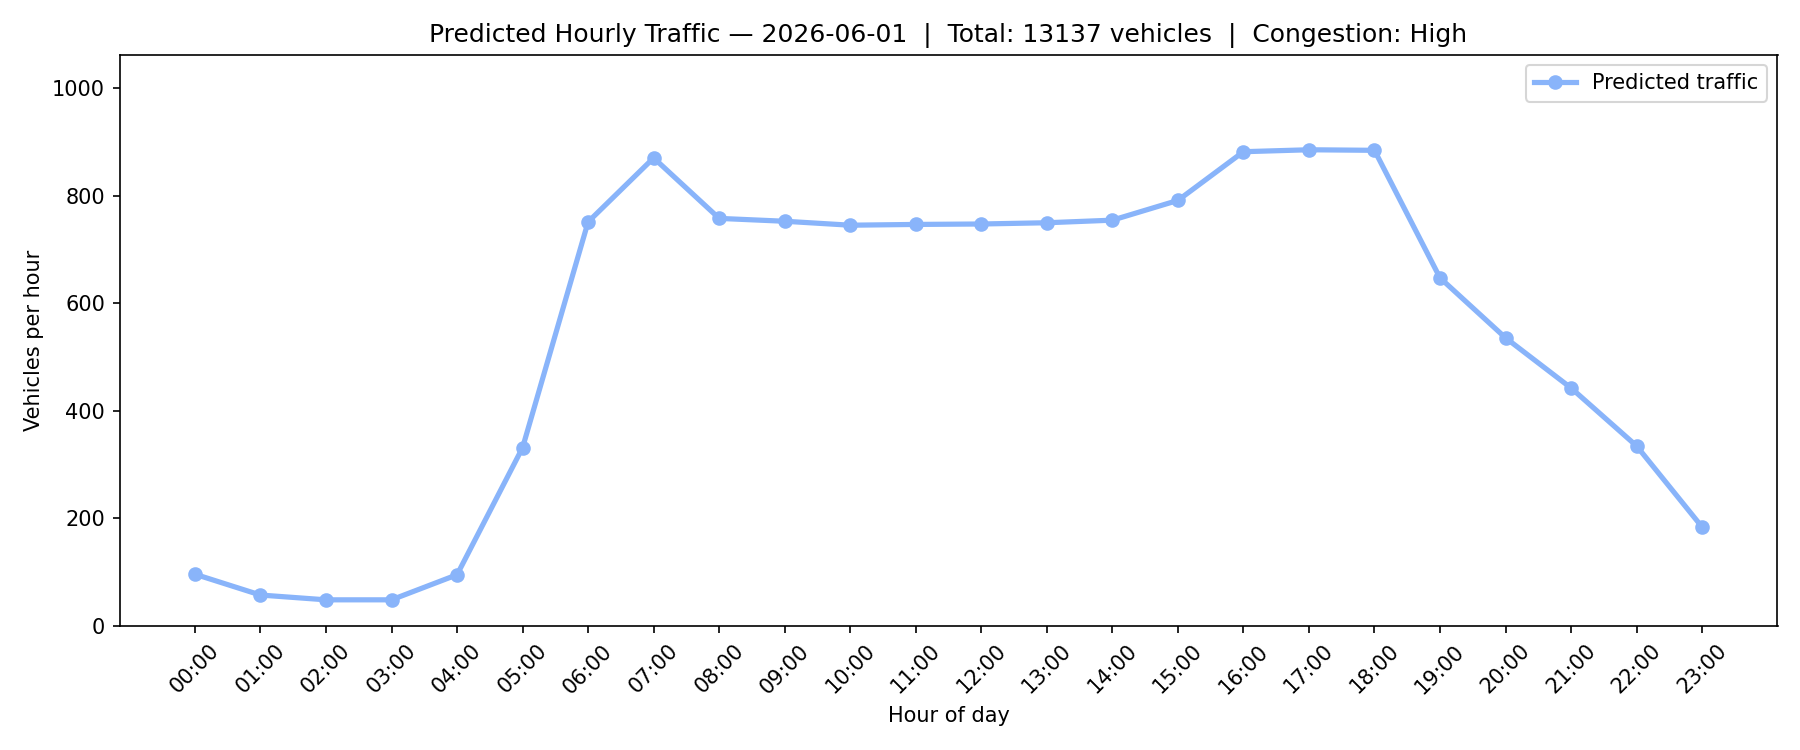
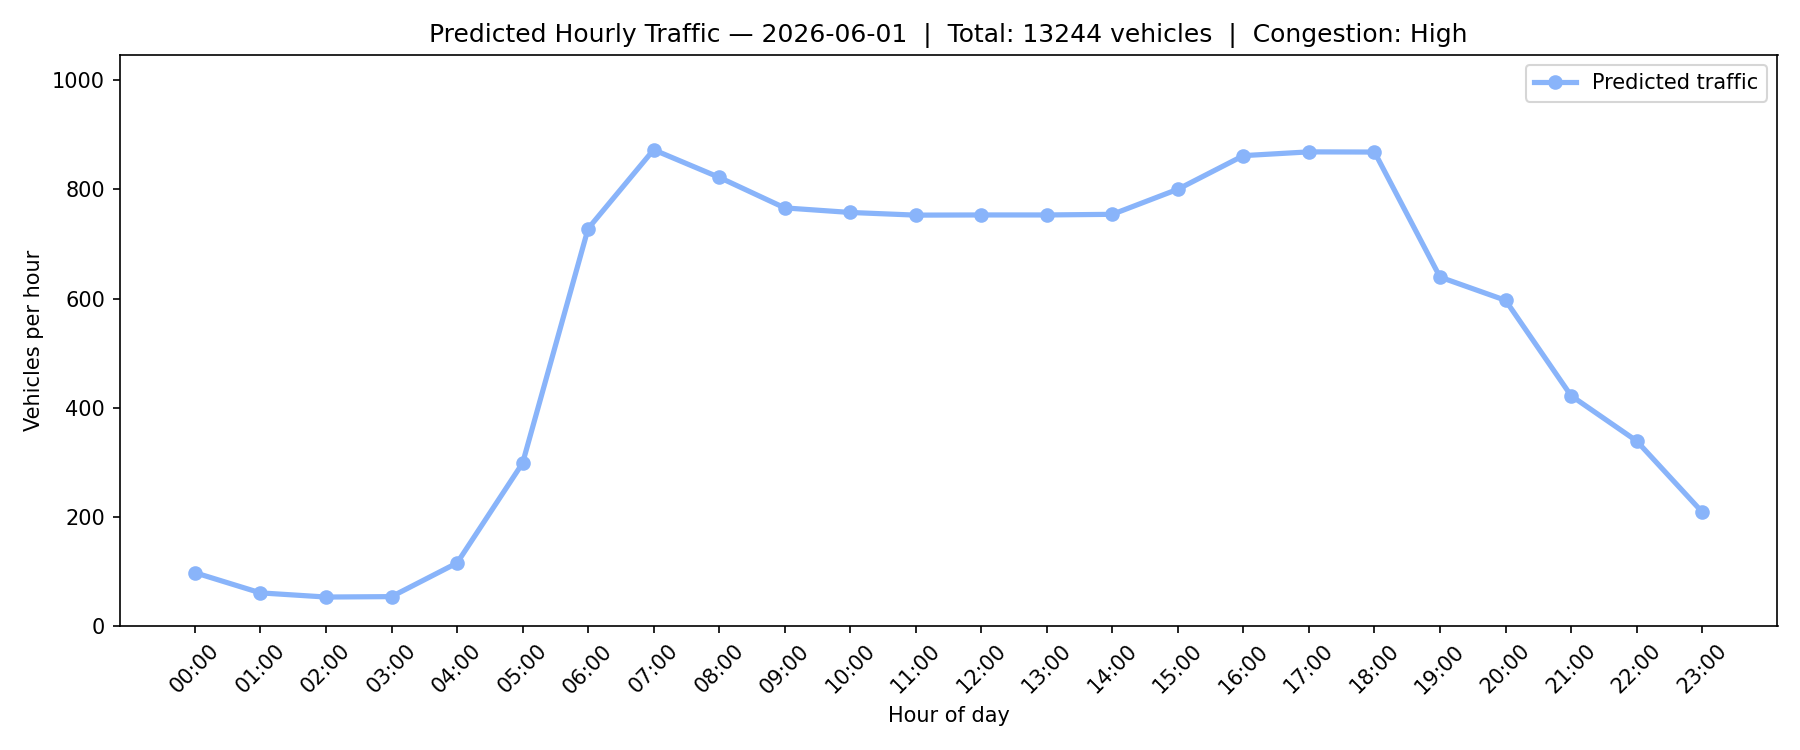
kjhb

diff --git a/angus/tfnsw_api/main.py b/angus/tfnsw_api/main.py
@@ -25,7 +25,7 @@ hourly = hourly.sort_values(["date", "hour"]).reset_index(drop=True)
 scg      = pd.read_csv("../../scg_events_2013_2019_clean.csv")
 hordern  = pd.read_csv("../../hordern_events_2013_2019_clean.csv")
 randwick = pd.read_csv("../../ben/royal_randwick_events_2013_2019_clean_with_estimated_attendance.csv")
-allianz  = pd.read_csv("../../allianz_sfs_events_2013_2019_clean.csv")
+allianz  = pd.read_csv("../../allianz_sydney_football_stadium_events_clean.csv")
 
 # Rename and fill attendance with venue capacity estimates
 scg     = scg.rename(columns={"attendance": "estimated_attendance"})
@@ -37,17 +37,23 @@ randwick["estimated_attendance"] = randwick["estimated_attendance"].fillna(20000
 allianz["estimated_attendance"]  = allianz["estimated_attendance"].fillna(40000)
 
 # Get event hours
-scg["event_hour"]      = pd.to_numeric(scg["start_hour"],    errors="coerce").fillna(18).astype(int)
-hordern["event_hour"]  = pd.to_numeric(hordern["hour"],      errors="coerce").fillna(18).astype(int)
-randwick["event_hour"] = pd.to_numeric(randwick["hour"],     errors="coerce").fillna(18).astype(int)
-allianz["event_hour"]  = pd.to_numeric(allianz["start_hour"],errors="coerce").fillna(18).astype(int)
+scg["event_hour"]      = pd.to_numeric(scg["start_hour"],     errors="coerce").fillna(18).astype(int)
+hordern["event_hour"]  = pd.to_numeric(hordern["hour"],       errors="coerce").fillna(18).astype(int)
+randwick["event_hour"] = pd.to_numeric(randwick["hour"],      errors="coerce").fillna(18).astype(int)
+allianz["event_hour"]  = pd.to_numeric(allianz["start_hour"], errors="coerce").fillna(18).astype(int)
+
+# Add venue type
+scg["venue_type"]      = 2
+hordern["venue_type"]  = 0
+randwick["venue_type"] = 1
+allianz["venue_type"]  = 2
 
 # ── Combine all events ────────────────────────────────────────
 events = pd.concat([
-    scg[["date", "estimated_attendance", "event_hour"]],
-    hordern[["date", "estimated_attendance", "event_hour"]],
-    randwick[["date", "estimated_attendance", "event_hour"]],
-    allianz[["date", "estimated_attendance", "event_hour"]]
+    scg[["date", "estimated_attendance", "event_hour", "venue_type"]],
+    hordern[["date", "estimated_attendance", "event_hour", "venue_type"]],
+    randwick[["date", "estimated_attendance", "event_hour", "venue_type"]],
+    allianz[["date", "estimated_attendance", "event_hour", "venue_type"]]
 ], ignore_index=True)
 events["date"] = pd.to_datetime(events["date"]).dt.normalize()
 
@@ -62,13 +68,15 @@ for _, row in events.iterrows():
             "hour":             h,
             "has_event":        1,
             "max_attendance":   row["estimated_attendance"],
-            "total_attendance": row["estimated_attendance"]
+            "total_attendance": row["estimated_attendance"],
+            "venue_type":       row["venue_type"]
         })
 
 event_hours_df = pd.DataFrame(event_hours).groupby(["date", "hour"]).agg(
     has_event        = ("has_event", "max"),
     max_attendance   = ("max_attendance", "max"),
-    total_attendance = ("total_attendance", "sum")
+    total_attendance = ("total_attendance", "sum"),
+    venue_type       = ("venue_type", "max")
 ).reset_index()
 
 # ── Merge ─────────────────────────────────────────────────────
@@ -76,6 +84,7 @@ hourly = hourly.merge(event_hours_df, on=["date", "hour"], how="left")
 hourly["has_event"]        = hourly["has_event"].fillna(0)
 hourly["max_attendance"]   = hourly["max_attendance"].fillna(0)
 hourly["total_attendance"] = hourly["total_attendance"].fillna(0)
+hourly["venue_type"]       = hourly["venue_type"].fillna(-1)
 
 # ── Feature engineering ───────────────────────────────────────
 hourly["day_of_year"]    = hourly["date"].dt.dayofyear
@@ -86,7 +95,7 @@ hourly["school_holiday"] = hourly["school_holiday"].astype(int)
 FEATURES = [
     "hour", "month", "day_of_week", "day_of_year",
     "is_weekend", "public_holiday", "school_holiday",
-    "has_event", "max_attendance", "total_attendance"
+    "has_event", "max_attendance", "total_attendance", "venue_type"
 ]
 TARGET = "vehicle_count"
 
@@ -94,12 +103,22 @@ TARGET = "vehicle_count"
 train = hourly[(hourly["year"] >= 2013) & (hourly["year"] <= 2018)]
 test  = hourly[hourly["year"] == 2019]
 
-X_train, y_train = train[FEATURES], train[TARGET]
+# Undersample non-event hours
+event_train     = train[train["has_event"] == 1]
+non_event_train = train[train["has_event"] == 0].sample(
+    n=len(event_train) * 10,
+    random_state=42
+)
+train_balanced = pd.concat([event_train, non_event_train]).sample(frac=1, random_state=42)
+
+X_train, y_train = train_balanced[FEATURES], train_balanced[TARGET]
 X_test,  y_test  = test[FEATURES],  test[TARGET]
 
-print(f"\nTraining rows      : {len(X_train):,}")
-print(f"Test rows          : {len(X_test):,}")
-print(f"Event hours in test: {test['has_event'].sum():.0f}")
+print(f"\nEvent hours in training    : {len(event_train):,}")
+print(f"Non-event hours in training: {len(non_event_train):,}")
+print(f"\nTraining rows (balanced) : {len(X_train):,}")
+print(f"Test rows                : {len(X_test):,}")
+print(f"Event hours in test      : {test['has_event'].sum():.0f}")
 
 # ── Train model ───────────────────────────────────────────────
 model = RandomForestRegressor(
@@ -135,8 +154,17 @@ plt.close()
 
 print("\n✓ Model plots saved.")
 
+# ── Attendance multiplier ─────────────────────────────────────
+def apply_event_multiplier(base_pred, max_attendance):
+    if max_attendance <= 0:
+        return base_pred
+    excess     = max(0, max_attendance - 5500)
+    multiplier = 1 + (excess / 10000) * 0.05
+    return base_pred * multiplier
+
 # ── Core prediction functions ─────────────────────────────────
-def predict_hour(date_str, hour, has_event=0, max_attendance=0, total_attendance=0):
+def predict_hour(date_str, hour, has_event=0, max_attendance=0,
+                 total_attendance=0, venue_type=-1):
     date = pd.Timestamp(date_str)
     input_data = pd.DataFrame([{
         "hour":             hour,
@@ -148,16 +176,22 @@ def predict_hour(date_str, hour, has_event=0, max_attendance=0, total_attendance
         "school_holiday":   0,
         "has_event":        has_event,
         "max_attendance":   max_attendance,
-        "total_attendance": total_attendance
+        "total_attendance": total_attendance,
+        "venue_type":       venue_type
     }])
-    return model.predict(input_data)[0]
+    base = model.predict(input_data)[0]
+    if has_event:
+        return apply_event_multiplier(base, max_attendance)
+    return base
 
 def predict_day_summary(date_str, has_event=0, max_attendance=0,
-                         total_attendance=0, event_hour=18, event_duration=4):
+                         total_attendance=0, event_hour=18,
+                         event_duration=4, venue_type=-1):
     hourly_preds = []
     for h in range(24):
         h_event = has_event if (has_event and event_hour <= h < event_hour + event_duration) else 0
-        hourly_preds.append(predict_hour(date_str, h, h_event, max_attendance, total_attendance))
+        vt      = venue_type if h_event else -1
+        hourly_preds.append(predict_hour(date_str, h, h_event, max_attendance, total_attendance, vt))
     total      = sum(hourly_preds)
     peak_hour  = hourly_preds.index(max(hourly_preds))
     peak_count = max(hourly_preds)
@@ -172,7 +206,8 @@ def predict_day_summary(date_str, has_event=0, max_attendance=0,
     return total, hourly_preds
 
 def predict_day_hourly(date_str, has_event=0, max_attendance=0,
-                        total_attendance=0, event_hour=18, event_duration=4):
+                        total_attendance=0, event_hour=18,
+                        event_duration=4, venue_type=-1):
     print(f"\n{'='*50}")
     print(f"HOURLY BREAKDOWN: {date_str}")
     print(f"{'='*50}")
@@ -181,7 +216,8 @@ def predict_day_hourly(date_str, has_event=0, max_attendance=0,
     hourly_preds = []
     for h in range(24):
         h_event = has_event if (has_event and event_hour <= h < event_hour + event_duration) else 0
-        pred    = predict_hour(date_str, h, h_event, max_attendance, total_attendance)
+        vt      = venue_type if h_event else -1
+        pred    = predict_hour(date_str, h, h_event, max_attendance, total_attendance, vt)
         level   = "Low" if pred < 300 else "Moderate" if pred < 600 else "High" if pred < 900 else "Severe"
         marker  = " ◀ EVENT" if h_event else ""
         print(f"{h:02d}:00   {pred:>10.0f} {level:>12}{marker}")
@@ -190,12 +226,13 @@ def predict_day_hourly(date_str, has_event=0, max_attendance=0,
 
 def plot_future_day(date_str, has_event=0, max_attendance=0,
                     total_attendance=0, event_hour=18, event_duration=4,
-                    event_name="Event"):
+                    venue_type=-1, event_name="Event"):
     hours = list(range(24))
     predictions = []
     for h in hours:
         h_event = has_event if (has_event and event_hour <= h < event_hour + event_duration) else 0
-        predictions.append(predict_hour(date_str, h, h_event, max_attendance, total_attendance))
+        vt      = venue_type if h_event else -1
+        predictions.append(predict_hour(date_str, h, h_event, max_attendance, total_attendance, vt))
 
     total      = sum(predictions)
     congestion = "Low" if total < 10000 else "Moderate" if total < 13000 else "High" if total < 15000 else "Severe"
@@ -238,6 +275,8 @@ def predict_with_auto_events(date_str):
         total_attendance = max_attendance
         event_hour       = int(events_that_day["event_hour"].iloc[0])
         event_name       = events_that_day["summary"].iloc[0]
+        venue            = events_that_day["venue"].iloc[0] if "venue" in events_that_day.columns else "scg"
+        venue_type       = 2 if "scg" in str(venue).lower() or "allianz" in str(venue).lower() else 1 if "randwick" in str(venue).lower() else 0
         print(f"\nEvents on {date_str}:")
         for _, e in events_that_day.iterrows():
             print(f"  - {e['summary']} (starts {int(e['event_hour']):02d}:00)")
@@ -247,12 +286,15 @@ def predict_with_auto_events(date_str):
         total_attendance = 0
         event_hour       = 18
         event_name       = ""
+        venue_type       = -1
         print(f"\nNo events on {date_str}")
 
-    predict_day_summary(date_str, has_event, max_attendance, total_attendance, event_hour)
-    predict_day_hourly(date_str, has_event, max_attendance, total_attendance, event_hour)
-    plot_future_day(date_str, has_event, max_attendance, total_attendance, event_hour,
-                    event_name=event_name)
+    predict_day_summary(date_str, has_event, max_attendance, total_attendance,
+                        event_hour, venue_type=venue_type)
+    predict_day_hourly(date_str, has_event, max_attendance, total_attendance,
+                       event_hour, venue_type=venue_type)
+    plot_future_day(date_str, has_event, max_attendance, total_attendance,
+                    event_hour, venue_type=venue_type, event_name=event_name)
 
 # ── Run predictions ───────────────────────────────────────────
 print("\n=== 2026 PREDICTIONS (AUTO) ===")
@@ -261,14 +303,24 @@ predict_with_auto_events("2026-06-01")   # no event
 
 print("\n=== 2027 PREDICTION (MANUAL with event) ===")
 predict_day_summary("2027-09-13", has_event=1, max_attendance=35000,
-                     total_attendance=35000, event_hour=19, event_duration=4)
+                     total_attendance=35000, event_hour=19,
+                     event_duration=4, venue_type=2)
 predict_day_hourly("2027-09-13",  has_event=1, max_attendance=35000,
-                    total_attendance=35000, event_hour=19, event_duration=4)
+                    total_attendance=35000, event_hour=19,
+                    event_duration=4, venue_type=2)
 plot_future_day("2027-09-13", has_event=1, max_attendance=35000,
                 total_attendance=35000, event_hour=19, event_duration=4,
-                event_name="Major SCG Event")
+                venue_type=2, event_name="Major SCG Event")
 
 print("\n=== 2027 PREDICTION (MANUAL no event) ===")
-predict_day_summary("2027-09-13", has_event=0, )
-predict_day_hourly("2027-09-13",  has_event=0, )
-plot_future_day("2027-09-13", has_event=0,)
+predict_day_summary("2027-09-13", has_event=0)
+predict_day_hourly("2027-09-13",  has_event=0)
+
+print('\n=== VENUE TYPE COMPARISON ===')
+print('Same event, Hordern (venue_type=0):')
+pred_hordern = predict_hour('2027-09-13', 19, has_event=1, max_attendance=35000, total_attendance=35000, venue_type=0)
+print(f'Predicted: {pred_hordern:.0f}')
+print('Same event, SCG (venue_type=2):')
+pred_scg = predict_hour('2027-09-13', 19, has_event=1, max_attendance=35000, total_attendance=35000, venue_type=2)
+print(f'Predicted: {pred_scg:.0f}')
+print(f'Difference: {pred_scg - pred_hordern:.0f} vehicles')
